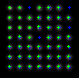
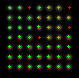
better images

diff --git a/mortensen/ground_truth.py b/mortensen/ground_truth.py
@@ -48,24 +48,26 @@ def ground_truth_with_drawing(image_path, output_path, grid_size=(7, 7), spacing
     centroids = []
     for i in range(grid_size[0]):
         for j in range(grid_size[1]):
-            x = center_x + (j - (grid_size[1] // 2)) * spacing
-            y = (center_y + (i - (grid_size[0] // 2)) * spacing) - 2
+            x = center_x + (j - (grid_size[1] - 1) // 2) * spacing
+            y = (center_y + (i - (grid_size[0] - 1) // 2) * spacing) - 2
             centroids.append((x, y))
 
             # Draw a red dot at the centroid location
-            cv2.circle(image, (x, y), radius=1, color=(255, 0, 0), thickness=-1)
+            cv2.circle(image, (x, y), radius=3, color=(255, 0, 0), thickness=-1)
 
     # Save the image with drawn centroids
     cv2.imwrite(output_path, image)
     print(f"Image with centroids saved to {output_path}")
 
-    return centroids
+    # Save a separate image with only ground truth dots
+    ground_truth_only_path = output_path.replace(".png", "_ground_truth_only.png")
+    ground_truth_only_image = np.zeros_like(image)
+    for x, y in centroids:
+        cv2.circle(ground_truth_only_image, (x, y), radius=3, color=(255, 0, 0), thickness=-1)
+    cv2.imwrite(ground_truth_only_path, ground_truth_only_image)
+    print(f"Image with ground truth dots only saved to {ground_truth_only_path}")
 
-# Example usage
-image_path = "/home/wgq72938/Documents/Hinterer/fixed-dipole-issue/mortensen/image_stack_fixdip_maxproject.png"
-output_path = "/home/wgq72938/Documents/Hinterer/fixed-dipole-issue/mortensen/image_with_dipoles.png"
-dipole_centroids = ground_truth_with_drawing(image_path, output_path)
-print(f"Ground truth centroids: {dipole_centroids}")
+    return centroids
 
 def find_centroids(image_path, output_path, threshold=15, min_area=4):
     """
@@ -102,7 +104,7 @@ def find_centroids(image_path, output_path, threshold=15, min_area=4):
                 centroids.append((cx, cy))
 
                 # Draw the centroid on the image
-                cv2.circle(image, (cx, cy), radius=3, color=(255, 0, 0), thickness=-1)
+                cv2.circle(image, (cx, cy), radius=1, color=(0, 255, 0), thickness=-1)
 
     # Save the image with detected centroids
     cv2.imwrite(output_path, image)
@@ -130,7 +132,7 @@ def compare_centroids(image_path, ground_truth, detected, output_path):
 
     # Draw ground truth centroids (red)
     for x, y in ground_truth:
-        cv2.circle(image, (x, y), radius=1, color=(255, 0, 0), thickness=-1)
+        cv2.circle(image, (x, y), radius=1, color=(0, 0, 255), thickness=-1)
 
     # Draw detected centroids (green)
     for x, y in detected:
